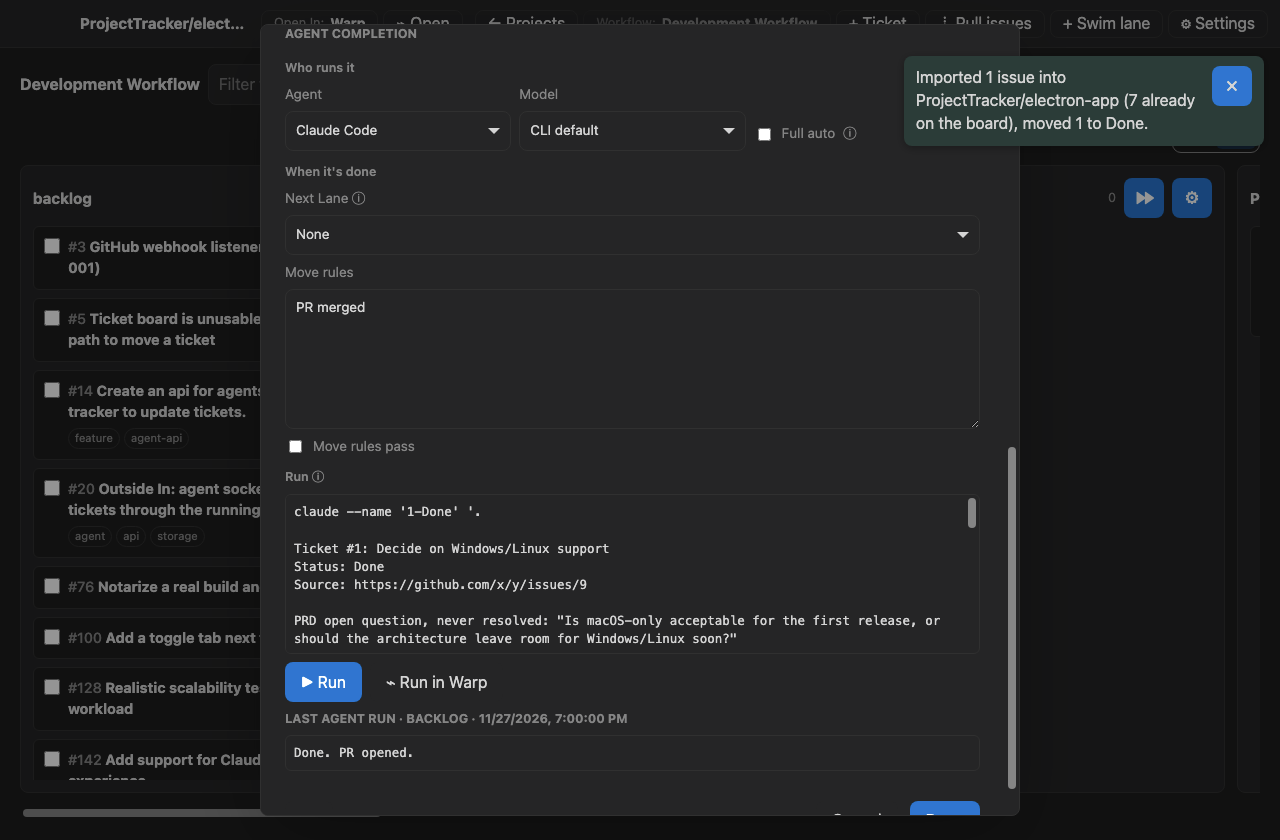
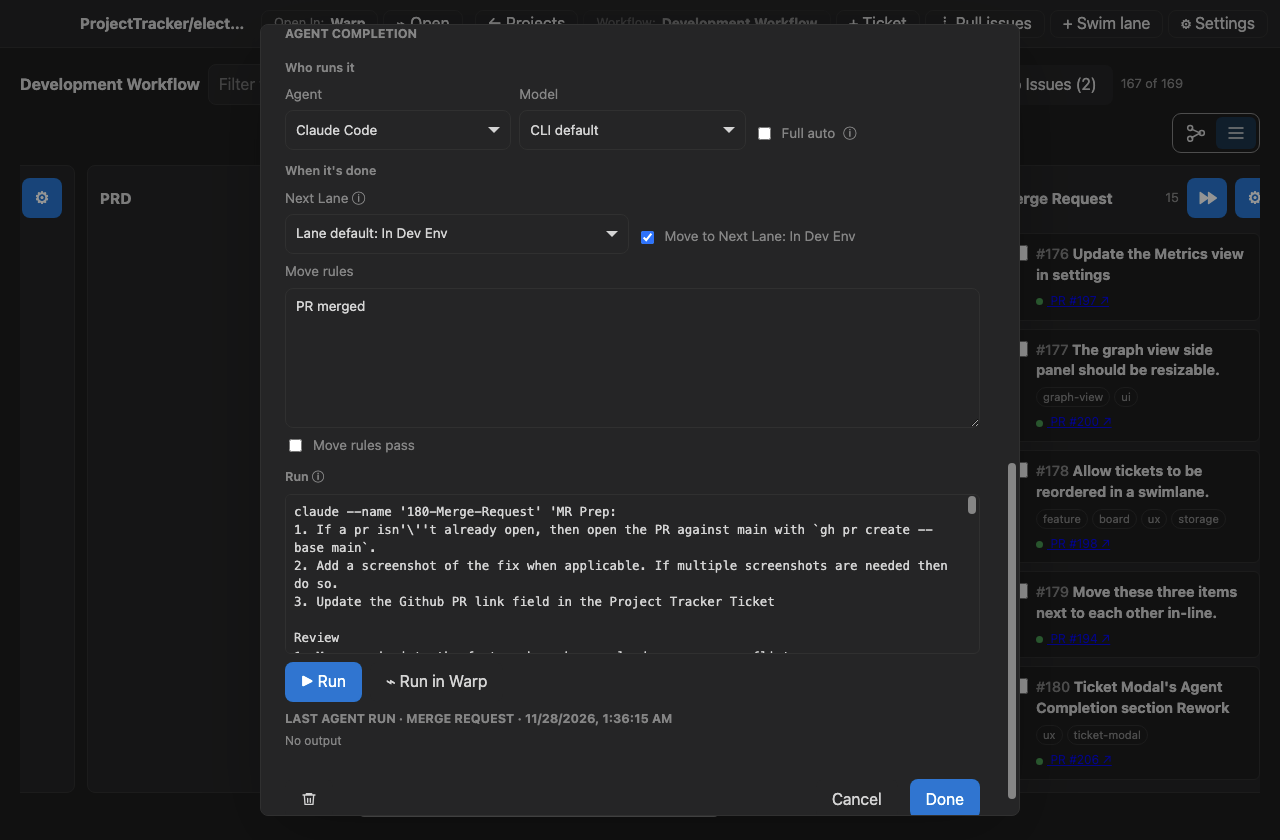
Fix review findings on agent completion rework
Bind the Next Lane caption to its select instead of the InfoTip button,
show No output only for finished headless runs, keep checkbox labels
from stretching across the section, add rel=noreferrer to View on
GitHub, and move the new computeds below openTicketOverrideId.

diff --git a/src/components/board/TicketModal.vue b/src/components/board/TicketModal.vue
@@ -286,17 +286,17 @@ const openTicketNextLaneId = computed(() =>
 
 // '' = inherit. A stale override naming the ticket's own lane shows as inherit
 // too, matching how effectiveNextLaneId resolves it.
-const showsWhoRunsIt = computed(
-  () => !hidesModalField('agent') || !hidesModalField('model') || !hidesModalField('fullAuto')
-)
-const showsMoveRules = computed(() => Boolean(openTicketNextLaneId.value || props.ticket.moveRules))
-const showsWhenItsDone = computed(() => !hidesModalField('nextLane') || showsMoveRules.value)
-
 const openTicketOverrideId = computed(() => {
   const ticket = props.ticket
   if (!ticket.moveToLaneId || ticket.moveToLaneId === ticket.laneId) return ''
   return ticket.moveToLaneId
 })
+
+const showsWhoRunsIt = computed(
+  () => !hidesModalField('agent') || !hidesModalField('model') || !hidesModalField('fullAuto')
+)
+const showsMoveRules = computed(() => Boolean(openTicketNextLaneId.value || props.ticket.moveRules))
+const showsWhenItsDone = computed(() => !hidesModalField('nextLane') || showsMoveRules.value)
 
 const openTicketLaneDefaultLabel = computed(() => {
   const laneDefaultId = laneNextLaneId(props.ticket.laneId)
@@ -526,7 +526,7 @@ defineExpose({
 
       <section v-if="!hidesModalField('externalLinks')" class="ticket-checklist ticket-links">
         <p class="eyebrow">External Links</p>
-        <a v-if="ticket.externalUrl" class="ticket-external" :href="ticket.externalUrl" target="_blank">
+        <a v-if="ticket.externalUrl" class="ticket-external" :href="ticket.externalUrl" target="_blank" rel="noreferrer">
           View on GitHub ({{ ticket.externalId?.replace('github:', '#') }})
         </a>
         <ul v-if="ticket.externalLinks?.length">
@@ -602,6 +602,7 @@ defineExpose({
         class="ticket-external"
         :href="ticket.externalUrl"
         target="_blank"
+        rel="noreferrer"
       >
         View on GitHub ({{ ticket.externalId?.replace('github:', '#') }})
       </a>
@@ -645,14 +646,15 @@ defineExpose({
 
         <p v-if="showsWhenItsDone" class="field-group-caption">When it's done</p>
         <div v-if="!hidesModalField('nextLane')" class="field-row">
-          <label>
+          <label for="ticket-next-lane-select">
             <span>
-              Next Lane
-              <InfoTip
+              <span id="ticket-next-lane-label">Next Lane</span> <InfoTip
                 text="Where this ticket goes when its checklist is done or ▶ Run succeeds. Defaults to the lane's Next Lane."
               />
             </span>
             <select
+              id="ticket-next-lane-select"
+              aria-labelledby="ticket-next-lane-label"
               :value="openTicketOverrideId"
               @change="setMoveToLane(ticket, ($event.target as HTMLSelectElement).value)"
             >
@@ -729,7 +731,12 @@ defineExpose({
             Last agent run · {{ laneName(ticket.agentRun.laneId) }} · {{ formatDateTime(ticket.agentRun.at) }}
           </p>
           <pre v-if="ticket.agentRun.output.trim()">{{ ticket.agentRun.output }}</pre>
-          <p v-else class="field-hint">No output</p>
+          <p
+            v-else-if="ticket.agentRun.status !== 'running' && ticket.agentRun.mode !== 'terminal'"
+            class="field-hint"
+          >
+            No output
+          </p>
         </div>
       </section>
 

diff --git a/src/styles.css b/src/styles.css
@@ -2077,6 +2077,10 @@ span.ticket-image-thumb {
   align-items: stretch;
 }
 
+.ticket-agent > .checkbox-label {
+  align-self: flex-start;
+}
+
 .ticket-agent-run .field-hint {
   margin: 4px 0 0;
 }
@@ -2110,7 +2114,6 @@ span.ticket-image-thumb {
   gap: 8px;
 }
 
-/* Scoped through the modal to outrank `.lane-modal label` / `.ticket-modal label` by specificity, not file order. */
 .lane-modal .field-row > label,
 .ticket-modal .field-row > label {
   flex: 1 1 0;
